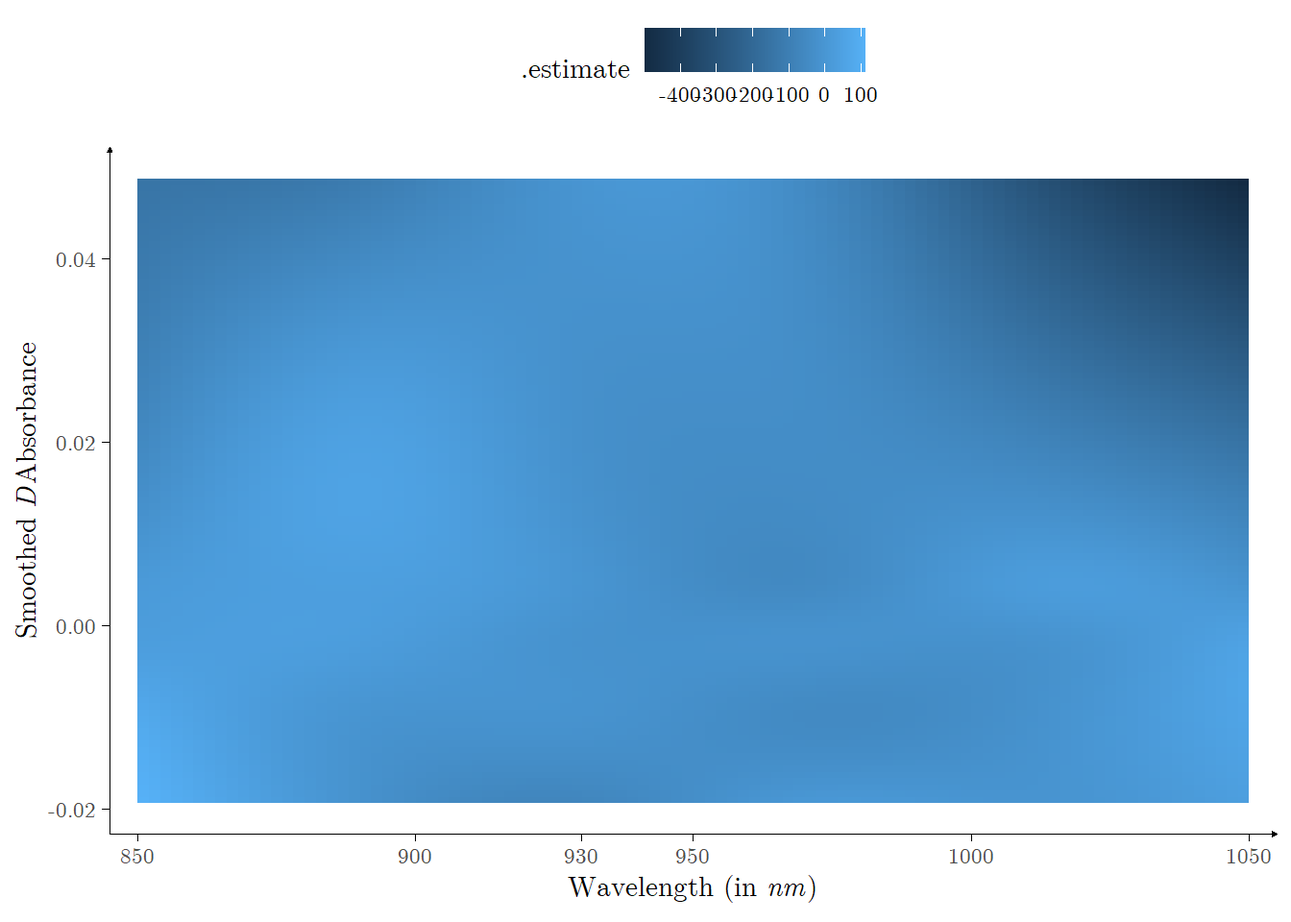
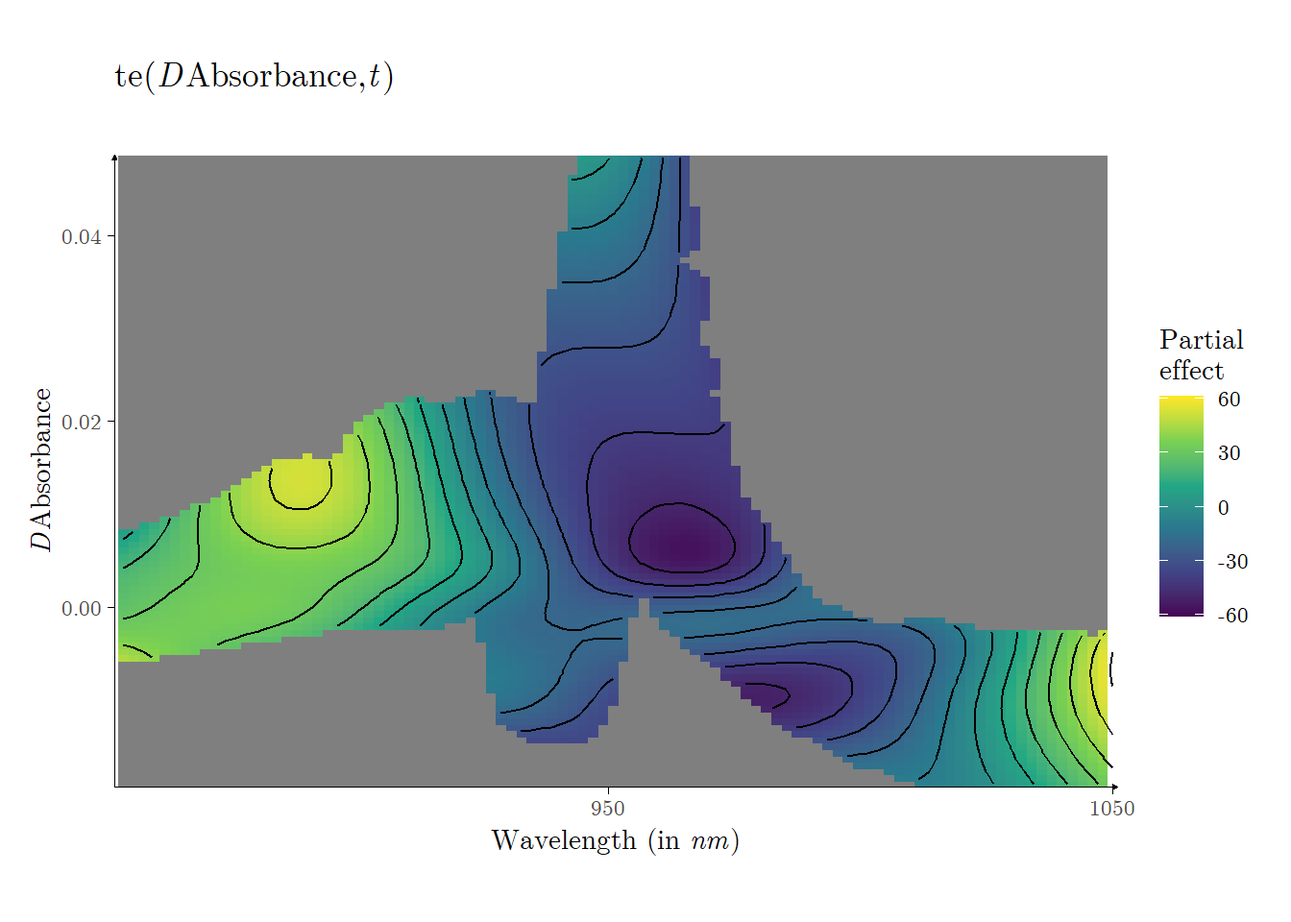
Updating the First Vignette

diff --git a/vignettes/vignette0001.html b/vignettes/vignette0001.html
@@ -214,10 +214,7 @@ window.Quarto = {
   <li><a href="#functional-regression" id="toc-functional-regression" class="nav-link" data-scroll-target="#functional-regression">Functional Regression</a>
   <ul class="collapse">
   <li><a href="#generalized-functional-linear-model" id="toc-generalized-functional-linear-model" class="nav-link" data-scroll-target="#generalized-functional-linear-model">Generalized Functional Linear Model</a></li>
-  <li><a href="#functional-generalized-additive-model" id="toc-functional-generalized-additive-model" class="nav-link" data-scroll-target="#functional-generalized-additive-model">Functional Generalized Additive Model</a>
-  <ul class="collapse">
-  <li><a href="#transformations" id="toc-transformations" class="nav-link" data-scroll-target="#transformations">Transformations</a></li>
-  </ul></li>
+  <li><a href="#functional-generalized-additive-model" id="toc-functional-generalized-additive-model" class="nav-link" data-scroll-target="#functional-generalized-additive-model">Functional Generalized Additive Model</a></li>
   </ul></li>
   <li><a href="#concluding-remarks" id="toc-concluding-remarks" class="nav-link" data-scroll-target="#concluding-remarks">Concluding Remarks</a></li>
   <li><a href="#references" id="toc-references" class="nav-link" data-scroll-target="#references">References</a></li>
@@ -1242,7 +1239,7 @@ Figure&nbsp;11: Left panel: smoothed absorbance curves on the training set. Righ
 <li>The link function <span class="math inline">\(g(\cdot)\)</span> to be adopted;</li>
 <li>The family adopted in the fitting procedure;</li>
 </ul>
-<p>amongst others. The third setting was alluded to previously when presenting the analysis of the Fat percentage data, wherein we observed that a distribution family of bounded support is ideal for the response variable, hence we will adopt the Beta regression framework. With respect to the link function, we determined, via residual analysis, that the <tt>probit</tt> link function results in the best fit (when comapared to the <tt>cloglog</tt>, <tt>cauchit</tt> and <tt>logit</tt> link functions). For the number of components on the functional additive term, we defined <span class="math inline">\(K_1 = K_2 = K\)</span>, and visually examined the predictive behavior of the models for <span class="math inline">\(K \in \{1,2,\ldots,10\}\)</span>. <a href="#fig-estimation0002" class="quarto-xref">Figure&nbsp;12</a> exhibits fitted versus true values, separated by training data and test data, for <span class="math inline">\(K \in \{5,6,7\}\)</span>. We note that the model with <span class="math inline">\(K = 6\)</span> presents less variability than the model with <span class="math inline">\(K = 5\)</span>, however the distinction between the model with <span class="math inline">\(K = 6\)</span> and <span class="math inline">\(K = 7\)</span> is less apparent. Likewise, we find that the change in estimate variability is similar through <span class="math inline">\(K &gt; 6\)</span>. Therefore, we likewise determined, via residuals analysis, the ideal number of components as <span class="math inline">\(K = 6\)</span>.</p>
+<p>amongst others. The third setting was alluded to previously when presenting the analysis of the Fat percentage data, wherein we observed that a distribution family of bounded support is ideal for the response variable, hence we will adopt the Beta regression framework. With respect to the link function, we determined, via residual analysis, that the <tt>probit</tt> link function results in the best fit (when comapared to the <tt>cloglog</tt>, <tt>cauchit</tt> and <tt>logit</tt> link functions). For the number of components on the functional additive term, we defined <span class="math inline">\(K_1 = K_2 = K\)</span>, and visually examined the predictive behavior of the models for <span class="math inline">\(K \in \{1,2,\ldots,10\}\)</span>. <a href="#fig-estimation0002" class="quarto-xref">Figure&nbsp;12</a> exhibits fitted versus true values, separated by training data and test data, for <span class="math inline">\(K \in \{5,6,7\}\)</span>. We note that the model with <span class="math inline">\(K = 6\)</span> presents less variability than the model with <span class="math inline">\(K = 5\)</span>, however the distinction between the model with <span class="math inline">\(K = 6\)</span> and <span class="math inline">\(K = 7\)</span> is less apparent. Likewise, we find that the change in estimate variability is similar through <span class="math inline">\(K &gt; 6\)</span>. Therefore, we likewise determined the ideal number of components via residuals analysis as <span class="math inline">\(K = 6\)</span>.</p>
 <div class="callout callout-style-default callout-warning callout-titled" title="On estimating the deviation parameter">
 <div class="callout-header d-flex align-content-center">
 <div class="callout-icon-container">
@@ -1410,16 +1407,8 @@ Figure&nbsp;12: Fitted values versus true values of Fat percentage, separated be
 </div>
 </div>
 </div>
-<p><a href="#fig-estimation0003" class="quarto-xref">Figure&nbsp;13</a> depicts the residual analysis plots output by a <tt>gamlss</tt> object in <tt>R</tt>. We note that the quantile residuals</p>
+<p><a href="#fig-estimation0003" class="quarto-xref">Figure&nbsp;13</a> depicts some residual analysis plots output by a <tt>gamlss</tt> object in <tt>R</tt>. The normalized quantile residuals seems sufficiently close to normality, hence we conclude the model exhibits a good fit, when we consider the training data solely.</p>
 <div class="cell" data-layout-align="center">
-<pre><code>#&gt; ******************************************************************
-#&gt;        Summary of the Quantile Residuals
-#&gt;                            mean   =  -0.00854049 
-#&gt;                        variance   =  1.00562 
-#&gt;                coef. of skewness  =  -0.03777219 
-#&gt;                coef. of kurtosis  =  3.586081 
-#&gt; Filliben correlation coefficient  =  0.9937032 
-#&gt; ******************************************************************</code></pre>
 <div class="cell-output-display">
 <div id="fig-estimation0003" class="quarto-float quarto-figure quarto-figure-center anchored" data-fig-align="center">
 <figure class="quarto-float quarto-float-fig figure">
@@ -1433,56 +1422,53 @@ Figure&nbsp;13: Residual analysis plot generated by the <tt>gamlss</tt> object f
 </div>
 </div>
 </div>
+<p><a href="#fig-estimation0004" class="quarto-xref">Figure&nbsp;14</a> depicts again the residual analysis plots output by a <tt>gamlss</tt> object in <tt>R</tt>, constructed utilizing now the full data set, with <span class="math inline">\(K = 6\)</span>. The normalized quantile residuals seems less close to normality when compared to the previous residuals analysis plots seen in <a href="#fig-estimation0003" class="quarto-xref">Figure&nbsp;13</a>, exhibiting in particular a higher kurtosis.</p>
 <div class="cell" data-layout-align="center">
 <div class="cell-output-display">
-<div class="quarto-figure quarto-figure-center">
-<figure class="figure">
-<p><img src="vignette0001_files/figure-html/estimation0004-1.png" class="img-fluid figure-img" width="672"></p>
-<figcaption>Residual analysis plot generated by the <tt>gamlss</tt> object for the complete data set.</figcaption>
+<div id="fig-estimation0004" class="quarto-float quarto-figure quarto-figure-center anchored" data-fig-align="center">
+<figure class="quarto-float quarto-float-fig figure">
+<div aria-describedby="fig-estimation0004-caption-0ceaefa1-69ba-4598-a22c-09a6ac19f8ca">
+<img src="vignette0001_files/figure-html/fig-estimation0004-1.png" class="img-fluid quarto-figure quarto-figure-center figure-img" width="672">
+</div>
+<figcaption class="quarto-float-caption-bottom quarto-float-caption quarto-float-fig" id="fig-estimation0004-caption-0ceaefa1-69ba-4598-a22c-09a6ac19f8ca">
+Figure&nbsp;14: Residual analysis plot generated by the <tt>gamlss</tt> object for the complete data set.
+</figcaption>
 </figure>
 </div>
 </div>
-<pre><code>#&gt; ******************************************************************
-#&gt;        Summary of the Quantile Residuals
-#&gt;                            mean   =  -0.01226872 
-#&gt;                        variance   =  0.9980133 
-#&gt;                coef. of skewness  =  0.0229834 
-#&gt;                coef. of kurtosis  =  4.399801 
-#&gt; Filliben correlation coefficient  =  0.9894296 
-#&gt; ******************************************************************</code></pre>
 </div>
 <div class="cell" data-layout-align="center">
 <details class="code-fold">
 <summary>Code</summary>
-<div class="sourceCode cell-code" id="cb17"><pre class="sourceCode r code-with-copy"><code class="sourceCode r"><span id="cb17-1"><a href="#cb17-1" aria-hidden="true" tabindex="-1"></a>se <span class="ot">=</span> <span class="fu">smooth_estimates</span>(fit_total) </span>
-<span id="cb17-2"><a href="#cb17-2" aria-hidden="true" tabindex="-1"></a>se <span class="ot">=</span> se <span class="sc">|&gt;</span> <span class="fu">mutate</span>(<span class="at">x =</span> (<span class="fl">1048.9899</span> <span class="sc">-</span> <span class="fl">851.0101</span>) <span class="sc">*</span> dabsorbance_matrix.tmat <span class="sc">+</span> <span class="fl">851.0101</span>,</span>
-<span id="cb17-3"><a href="#cb17-3" aria-hidden="true" tabindex="-1"></a>                  <span class="at">y =</span> dabsorbance_matrix.omat) <span class="sc">|&gt;</span></span>
-<span id="cb17-4"><a href="#cb17-4" aria-hidden="true" tabindex="-1"></a>  <span class="fu">mutate</span>(<span class="at">dabsorbance_matrix.tmat =</span> <span class="cn">NULL</span>,</span>
-<span id="cb17-5"><a href="#cb17-5" aria-hidden="true" tabindex="-1"></a>         <span class="at">dabsorbance_matrix.omat =</span> <span class="cn">NULL</span>)</span>
-<span id="cb17-6"><a href="#cb17-6" aria-hidden="true" tabindex="-1"></a>se <span class="sc">|&gt;</span> </span>
-<span id="cb17-7"><a href="#cb17-7" aria-hidden="true" tabindex="-1"></a>  <span class="fu">ggplot</span>(<span class="at">mapping =</span> <span class="fu">aes</span>(<span class="at">x =</span> x,</span>
-<span id="cb17-8"><a href="#cb17-8" aria-hidden="true" tabindex="-1"></a>                       <span class="at">y =</span> y,</span>
-<span id="cb17-9"><a href="#cb17-9" aria-hidden="true" tabindex="-1"></a>                       <span class="at">z =</span> .estimate)) <span class="sc">+</span></span>
-<span id="cb17-10"><a href="#cb17-10" aria-hidden="true" tabindex="-1"></a>  <span class="fu">geom_raster</span>(<span class="fu">aes</span>(<span class="at">fill =</span> .estimate)) <span class="sc">+</span></span>
-<span id="cb17-11"><a href="#cb17-11" aria-hidden="true" tabindex="-1"></a>  <span class="fu">theme_classic</span>() <span class="sc">+</span></span>
-<span id="cb17-12"><a href="#cb17-12" aria-hidden="true" tabindex="-1"></a>  <span class="fu">theme</span>(<span class="at">text =</span> <span class="fu">element_text</span>(<span class="at">size =</span> <span class="fu">unit</span>(<span class="dv">11</span>, <span class="st">"pt"</span>),</span>
-<span id="cb17-13"><a href="#cb17-13" aria-hidden="true" tabindex="-1"></a>                            <span class="at">family =</span> <span class="st">"LM Roman 10"</span>,</span>
-<span id="cb17-14"><a href="#cb17-14" aria-hidden="true" tabindex="-1"></a>                            <span class="at">color =</span> <span class="st">"black"</span>),</span>
-<span id="cb17-15"><a href="#cb17-15" aria-hidden="true" tabindex="-1"></a>        <span class="at">axis.line =</span> <span class="fu">element_line</span>(<span class="at">arrow =</span> grid<span class="sc">::</span><span class="fu">arrow</span>(<span class="at">length =</span> <span class="fu">unit</span>(<span class="fl">0.08</span>, <span class="st">"cm"</span>), </span>
-<span id="cb17-16"><a href="#cb17-16" aria-hidden="true" tabindex="-1"></a>                                                     <span class="at">ends =</span> <span class="st">"last"</span>,</span>
-<span id="cb17-17"><a href="#cb17-17" aria-hidden="true" tabindex="-1"></a>                                                     <span class="at">angle =</span> <span class="dv">30</span>,</span>
-<span id="cb17-18"><a href="#cb17-18" aria-hidden="true" tabindex="-1"></a>                                                     <span class="at">type =</span> <span class="st">"closed"</span>),</span>
-<span id="cb17-19"><a href="#cb17-19" aria-hidden="true" tabindex="-1"></a>                                 <span class="at">linewidth =</span> .<span class="dv">25</span>),</span>
-<span id="cb17-20"><a href="#cb17-20" aria-hidden="true" tabindex="-1"></a>        <span class="at">axis.ticks =</span> <span class="fu">element_line</span>(<span class="at">color =</span> <span class="st">"black"</span>,</span>
-<span id="cb17-21"><a href="#cb17-21" aria-hidden="true" tabindex="-1"></a>                                  <span class="at">linewidth =</span> .<span class="dv">125</span>),</span>
-<span id="cb17-22"><a href="#cb17-22" aria-hidden="true" tabindex="-1"></a>        <span class="at">legend.position =</span> <span class="st">"top"</span>) <span class="sc">+</span></span>
-<span id="cb17-23"><a href="#cb17-23" aria-hidden="true" tabindex="-1"></a>  <span class="fu">labs</span>(<span class="at">x =</span> <span class="fu">expression</span>(<span class="fu">paste</span>(<span class="st">"Wavelength "</span>, <span class="st">"(in "</span>, <span class="fu">italic</span>(<span class="st">"nm"</span>), <span class="st">")"</span>)),</span>
-<span id="cb17-24"><a href="#cb17-24" aria-hidden="true" tabindex="-1"></a>       <span class="at">y =</span> <span class="fu">substitute</span>(<span class="fu">paste</span>(<span class="st">"Smoothed "</span>,<span class="fu">italic</span>(<span class="st">"D"</span>),<span class="st">"Absorbance"</span>)),,</span>
-<span id="cb17-25"><a href="#cb17-25" aria-hidden="true" tabindex="-1"></a>       <span class="at">col =</span> <span class="st">""</span>) <span class="sc">+</span></span>
-<span id="cb17-26"><a href="#cb17-26" aria-hidden="true" tabindex="-1"></a>  <span class="fu">scale_x_continuous</span>(<span class="at">expand =</span> <span class="fu">c</span>(<span class="dv">0</span>, <span class="dv">0</span>),</span>
-<span id="cb17-27"><a href="#cb17-27" aria-hidden="true" tabindex="-1"></a>                     <span class="at">breaks =</span> <span class="fu">c</span>(<span class="dv">850</span>, <span class="dv">900</span>, <span class="dv">930</span>, <span class="dv">950</span>, <span class="dv">1000</span>, <span class="dv">1050</span>),</span>
-<span id="cb17-28"><a href="#cb17-28" aria-hidden="true" tabindex="-1"></a>                     <span class="at">labels =</span> <span class="fu">c</span>(<span class="st">"850"</span>, <span class="st">"900"</span>, <span class="st">"930"</span>, <span class="st">"950"</span>, <span class="st">"1000"</span>, <span class="st">"1050"</span>),</span>
-<span id="cb17-29"><a href="#cb17-29" aria-hidden="true" tabindex="-1"></a>                     <span class="at">limits =</span> <span class="fu">c</span>(<span class="dv">845</span>, <span class="dv">1055</span>))</span></code><button title="Copy to Clipboard" class="code-copy-button"><i class="bi"></i></button></pre></div>
+<div class="sourceCode cell-code" id="cb15"><pre class="sourceCode r code-with-copy"><code class="sourceCode r"><span id="cb15-1"><a href="#cb15-1" aria-hidden="true" tabindex="-1"></a>se <span class="ot">=</span> <span class="fu">smooth_estimates</span>(fit_total, <span class="at">dist =</span> .<span class="dv">05</span>) </span>
+<span id="cb15-2"><a href="#cb15-2" aria-hidden="true" tabindex="-1"></a><span class="fu">draw</span>(se) <span class="sc">+</span> </span>
+<span id="cb15-3"><a href="#cb15-3" aria-hidden="true" tabindex="-1"></a>  <span class="fu">theme_classic</span>() <span class="sc">+</span></span>
+<span id="cb15-4"><a href="#cb15-4" aria-hidden="true" tabindex="-1"></a>  <span class="fu">theme</span>(<span class="at">text =</span> <span class="fu">element_text</span>(<span class="at">size =</span> <span class="fu">unit</span>(<span class="dv">11</span>, <span class="st">"pt"</span>),</span>
+<span id="cb15-5"><a href="#cb15-5" aria-hidden="true" tabindex="-1"></a>                            <span class="at">family =</span> <span class="st">"LM Roman 10"</span>,</span>
+<span id="cb15-6"><a href="#cb15-6" aria-hidden="true" tabindex="-1"></a>                            <span class="at">color =</span> <span class="st">"black"</span>),</span>
+<span id="cb15-7"><a href="#cb15-7" aria-hidden="true" tabindex="-1"></a>        <span class="at">axis.line =</span> <span class="fu">element_line</span>(<span class="at">arrow =</span> grid<span class="sc">::</span><span class="fu">arrow</span>(<span class="at">length =</span> <span class="fu">unit</span>(<span class="fl">0.08</span>, <span class="st">"cm"</span>), </span>
+<span id="cb15-8"><a href="#cb15-8" aria-hidden="true" tabindex="-1"></a>                                                     <span class="at">ends =</span> <span class="st">"last"</span>,</span>
+<span id="cb15-9"><a href="#cb15-9" aria-hidden="true" tabindex="-1"></a>                                                     <span class="at">angle =</span> <span class="dv">30</span>,</span>
+<span id="cb15-10"><a href="#cb15-10" aria-hidden="true" tabindex="-1"></a>                                                     <span class="at">type =</span> <span class="st">"closed"</span>),</span>
+<span id="cb15-11"><a href="#cb15-11" aria-hidden="true" tabindex="-1"></a>                                 <span class="at">linewidth =</span> .<span class="dv">25</span>),</span>
+<span id="cb15-12"><a href="#cb15-12" aria-hidden="true" tabindex="-1"></a>        <span class="at">axis.ticks =</span> <span class="fu">element_line</span>(<span class="at">color =</span> <span class="st">"black"</span>,</span>
+<span id="cb15-13"><a href="#cb15-13" aria-hidden="true" tabindex="-1"></a>                                  <span class="at">linewidth =</span> .<span class="dv">125</span>),</span>
+<span id="cb15-14"><a href="#cb15-14" aria-hidden="true" tabindex="-1"></a>        <span class="at">legend.position =</span> <span class="st">"right"</span>) <span class="sc">+</span></span>
+<span id="cb15-15"><a href="#cb15-15" aria-hidden="true" tabindex="-1"></a>  <span class="fu">labs</span>(<span class="at">x =</span> <span class="fu">expression</span>(<span class="fu">paste</span>(<span class="st">"Wavelength "</span>, <span class="st">"(in "</span>, <span class="fu">italic</span>(<span class="st">"nm"</span>), <span class="st">")"</span>)),</span>
+<span id="cb15-16"><a href="#cb15-16" aria-hidden="true" tabindex="-1"></a>       <span class="at">y =</span> <span class="fu">substitute</span>(<span class="fu">paste</span>(<span class="fu">italic</span>(<span class="st">"D"</span>),<span class="st">"Absorbance"</span>)),,</span>
+<span id="cb15-17"><a href="#cb15-17" aria-hidden="true" tabindex="-1"></a>       <span class="at">col =</span> <span class="st">""</span>,</span>
+<span id="cb15-18"><a href="#cb15-18" aria-hidden="true" tabindex="-1"></a>       <span class="at">subtitle =</span> <span class="st">""</span>,</span>
+<span id="cb15-19"><a href="#cb15-19" aria-hidden="true" tabindex="-1"></a>       <span class="at">tag =</span> <span class="st">""</span>,</span>
+<span id="cb15-20"><a href="#cb15-20" aria-hidden="true" tabindex="-1"></a>       <span class="at">caption =</span> <span class="st">""</span>) <span class="sc">+</span></span>
+<span id="cb15-21"><a href="#cb15-21" aria-hidden="true" tabindex="-1"></a>  <span class="fu">scale_x_continuous</span>(<span class="at">expand =</span> <span class="fu">c</span>(<span class="dv">0</span>, <span class="dv">0</span>),</span>
+<span id="cb15-22"><a href="#cb15-22" aria-hidden="true" tabindex="-1"></a>                     <span class="at">breaks =</span> <span class="fu">c</span>(<span class="dv">0</span>, .<span class="dv">5</span>, <span class="dv">1</span>),</span>
+<span id="cb15-23"><a href="#cb15-23" aria-hidden="true" tabindex="-1"></a>                     <span class="at">labels =</span> <span class="fu">c</span>(<span class="st">"850"</span>, <span class="st">"950"</span>, <span class="st">"1050"</span>),</span>
+<span id="cb15-24"><a href="#cb15-24" aria-hidden="true" tabindex="-1"></a>                     <span class="at">limits =</span> <span class="fu">c</span>(<span class="fl">0.01169591</span>, <span class="fl">1.004762</span>)) <span class="sc">+</span></span>
+<span id="cb15-25"><a href="#cb15-25" aria-hidden="true" tabindex="-1"></a>  <span class="fu">scale_y_continuous</span>(<span class="at">expand =</span> <span class="fu">c</span>(<span class="dv">0</span>, <span class="dv">0</span>)) <span class="sc">+</span></span>
+<span id="cb15-26"><a href="#cb15-26" aria-hidden="true" tabindex="-1"></a>  <span class="fu">ggtitle</span>(<span class="fu">substitute</span>(<span class="fu">paste</span>(<span class="st">"te("</span>,<span class="fu">italic</span>(<span class="st">"D"</span>),<span class="st">"Absorbance,"</span>, <span class="fu">italic</span>(t), <span class="st">")"</span>))) <span class="sc">+</span></span>
+<span id="cb15-27"><a href="#cb15-27" aria-hidden="true" tabindex="-1"></a>  <span class="fu">scale_fill_continuous</span>(<span class="at">type =</span> <span class="st">"viridis"</span>)</span>
+<span id="cb15-28"><a href="#cb15-28" aria-hidden="true" tabindex="-1"></a><span class="co">#&gt; Scale for fill is already present.</span></span>
+<span id="cb15-29"><a href="#cb15-29" aria-hidden="true" tabindex="-1"></a><span class="co">#&gt; Adding another scale for fill, which will replace the existing scale.</span></span></code><button title="Copy to Clipboard" class="code-copy-button"><i class="bi"></i></button></pre></div>
 </details>
 <div class="cell-output-display">
 <div class="quarto-figure quarto-figure-center">
@@ -1491,54 +1477,59 @@ Figure&nbsp;13: Residual analysis plot generated by the <tt>gamlss</tt> object f
 </figure>
 </div>
 </div>
-</div>
-<section id="transformations" class="level3">
-<h3 class="anchored" data-anchor-id="transformations">Transformations</h3>
-<p><span class="math display">\[
-  g^{-1}(\mu_i) = \beta_0 + \int^{1050}_{850} F\{s, T(D \chi_i(s))\} \; \text{d}s
-\]</span></p>
-<div class="cell">
 <details class="code-fold">
 <summary>Code</summary>
-<div class="sourceCode cell-code" id="cb18"><pre class="sourceCode r code-with-copy"><code class="sourceCode r"><span id="cb18-1"><a href="#cb18-1" aria-hidden="true" tabindex="-1"></a>tecator_data<span class="sc">$</span>normdabsorbance_matrix <span class="ot">=</span> tecator_data<span class="sc">$</span>dabsorbance_matrix</span>
-<span id="cb18-2"><a href="#cb18-2" aria-hidden="true" tabindex="-1"></a><span class="cf">for</span>(j <span class="cf">in</span> <span class="dv">1</span> <span class="sc">:</span> <span class="fu">ncol</span>(tecator_data<span class="sc">$</span>dabsorbance_matrix))</span>
-<span id="cb18-3"><a href="#cb18-3" aria-hidden="true" tabindex="-1"></a>{</span>
-<span id="cb18-4"><a href="#cb18-4" aria-hidden="true" tabindex="-1"></a>  aux_dabsorbance <span class="ot">=</span> (tecator_data <span class="sc">|&gt;</span> <span class="fu">subset</span>(train <span class="sc">==</span> <span class="dv">1</span>))<span class="sc">$</span>dabsorbance_matrix[ , j ]</span>
-<span id="cb18-5"><a href="#cb18-5" aria-hidden="true" tabindex="-1"></a>  <span class="cf">for</span>(i <span class="cf">in</span> <span class="dv">1</span> <span class="sc">:</span> <span class="fu">nrow</span>(tecator_data<span class="sc">$</span>dabsorbance_matrix))</span>
-<span id="cb18-6"><a href="#cb18-6" aria-hidden="true" tabindex="-1"></a>  {</span>
-<span id="cb18-7"><a href="#cb18-7" aria-hidden="true" tabindex="-1"></a>    tecator_data<span class="sc">$</span>normdabsorbance_matrix[ i , j ] <span class="ot">=</span></span>
-<span id="cb18-8"><a href="#cb18-8" aria-hidden="true" tabindex="-1"></a>      <span class="fu">mean</span>(<span class="fu">pnorm</span>((tecator_data<span class="sc">$</span>dabsorbance_matrix[ i , j ] <span class="sc">-</span> aux_dabsorbance) <span class="sc">/</span> (<span class="fu">sd</span>(aux_dabsorbance))))</span>
-<span id="cb18-9"><a href="#cb18-9" aria-hidden="true" tabindex="-1"></a>  }</span>
-<span id="cb18-10"><a href="#cb18-10" aria-hidden="true" tabindex="-1"></a>}</span>
-<span id="cb18-11"><a href="#cb18-11" aria-hidden="true" tabindex="-1"></a>tecator_data <span class="ot">=</span> tecator_data <span class="sc">|&gt;</span></span>
-<span id="cb18-12"><a href="#cb18-12" aria-hidden="true" tabindex="-1"></a>  <span class="fu">mutate</span>(<span class="at">normdabsorbance =</span> <span class="fu">tfd</span>(<span class="at">data =</span> normdabsorbance_matrix,</span>
-<span id="cb18-13"><a href="#cb18-13" aria-hidden="true" tabindex="-1"></a>                               <span class="at">arg =</span> <span class="fu">attr</span>(tecator_data<span class="sc">$</span>normdabsorbance_matrix, <span class="st">"arg"</span>)))</span>
-<span id="cb18-14"><a href="#cb18-14" aria-hidden="true" tabindex="-1"></a>tecator_data <span class="sc">|&gt;</span></span>
-<span id="cb18-15"><a href="#cb18-15" aria-hidden="true" tabindex="-1"></a>  <span class="fu">ggplot</span>(<span class="at">mapping =</span> <span class="fu">aes</span>(<span class="at">y =</span> normdabsorbance,</span>
-<span id="cb18-16"><a href="#cb18-16" aria-hidden="true" tabindex="-1"></a>                       <span class="at">color =</span> fat20)) <span class="sc">+</span></span>
-<span id="cb18-17"><a href="#cb18-17" aria-hidden="true" tabindex="-1"></a>  <span class="fu">geom_spaghetti</span>()</span></code><button title="Copy to Clipboard" class="code-copy-button"><i class="bi"></i></button></pre></div>
+<div class="sourceCode cell-code" id="cb16"><pre class="sourceCode r code-with-copy"><code class="sourceCode r"><span id="cb16-1"><a href="#cb16-1" aria-hidden="true" tabindex="-1"></a></span>
+<span id="cb16-2"><a href="#cb16-2" aria-hidden="true" tabindex="-1"></a>se <span class="sc">|&gt;</span> <span class="fu">mutate</span>(<span class="at">.estimate =</span> <span class="fu">abs</span>(.estimate <span class="sc">/</span> .se <span class="sc">**</span> .<span class="dv">5</span>)) <span class="sc">|&gt;</span> <span class="fu">draw</span>() <span class="sc">+</span> </span>
+<span id="cb16-3"><a href="#cb16-3" aria-hidden="true" tabindex="-1"></a>  <span class="fu">theme_classic</span>() <span class="sc">+</span></span>
+<span id="cb16-4"><a href="#cb16-4" aria-hidden="true" tabindex="-1"></a>  <span class="fu">theme</span>(<span class="at">text =</span> <span class="fu">element_text</span>(<span class="at">size =</span> <span class="fu">unit</span>(<span class="dv">11</span>, <span class="st">"pt"</span>),</span>
+<span id="cb16-5"><a href="#cb16-5" aria-hidden="true" tabindex="-1"></a>                            <span class="at">family =</span> <span class="st">"LM Roman 10"</span>,</span>
+<span id="cb16-6"><a href="#cb16-6" aria-hidden="true" tabindex="-1"></a>                            <span class="at">color =</span> <span class="st">"black"</span>),</span>
+<span id="cb16-7"><a href="#cb16-7" aria-hidden="true" tabindex="-1"></a>        <span class="at">axis.line =</span> <span class="fu">element_line</span>(<span class="at">arrow =</span> grid<span class="sc">::</span><span class="fu">arrow</span>(<span class="at">length =</span> <span class="fu">unit</span>(<span class="fl">0.08</span>, <span class="st">"cm"</span>), </span>
+<span id="cb16-8"><a href="#cb16-8" aria-hidden="true" tabindex="-1"></a>                                                     <span class="at">ends =</span> <span class="st">"last"</span>,</span>
+<span id="cb16-9"><a href="#cb16-9" aria-hidden="true" tabindex="-1"></a>                                                     <span class="at">angle =</span> <span class="dv">30</span>,</span>
+<span id="cb16-10"><a href="#cb16-10" aria-hidden="true" tabindex="-1"></a>                                                     <span class="at">type =</span> <span class="st">"closed"</span>),</span>
+<span id="cb16-11"><a href="#cb16-11" aria-hidden="true" tabindex="-1"></a>                                 <span class="at">linewidth =</span> .<span class="dv">25</span>),</span>
+<span id="cb16-12"><a href="#cb16-12" aria-hidden="true" tabindex="-1"></a>        <span class="at">axis.ticks =</span> <span class="fu">element_line</span>(<span class="at">color =</span> <span class="st">"black"</span>,</span>
+<span id="cb16-13"><a href="#cb16-13" aria-hidden="true" tabindex="-1"></a>                                  <span class="at">linewidth =</span> .<span class="dv">125</span>),</span>
+<span id="cb16-14"><a href="#cb16-14" aria-hidden="true" tabindex="-1"></a>        <span class="at">legend.position =</span> <span class="st">"right"</span>) <span class="sc">+</span></span>
+<span id="cb16-15"><a href="#cb16-15" aria-hidden="true" tabindex="-1"></a>  <span class="fu">labs</span>(<span class="at">x =</span> <span class="fu">expression</span>(<span class="fu">paste</span>(<span class="st">"Wavelength "</span>, <span class="st">"(in "</span>, <span class="fu">italic</span>(<span class="st">"nm"</span>), <span class="st">")"</span>)),</span>
+<span id="cb16-16"><a href="#cb16-16" aria-hidden="true" tabindex="-1"></a>       <span class="at">y =</span> <span class="fu">substitute</span>(<span class="fu">paste</span>(<span class="fu">italic</span>(<span class="st">"D"</span>),<span class="st">"Absorbance"</span>)),,</span>
+<span id="cb16-17"><a href="#cb16-17" aria-hidden="true" tabindex="-1"></a>       <span class="at">col =</span> <span class="st">""</span>,</span>
+<span id="cb16-18"><a href="#cb16-18" aria-hidden="true" tabindex="-1"></a>       <span class="at">subtitle =</span> <span class="st">""</span>,</span>
+<span id="cb16-19"><a href="#cb16-19" aria-hidden="true" tabindex="-1"></a>       <span class="at">tag =</span> <span class="st">""</span>,</span>
+<span id="cb16-20"><a href="#cb16-20" aria-hidden="true" tabindex="-1"></a>       <span class="at">caption =</span> <span class="st">""</span>) <span class="sc">+</span></span>
+<span id="cb16-21"><a href="#cb16-21" aria-hidden="true" tabindex="-1"></a>  <span class="fu">scale_x_continuous</span>(<span class="at">expand =</span> <span class="fu">c</span>(<span class="dv">0</span>, <span class="dv">0</span>),</span>
+<span id="cb16-22"><a href="#cb16-22" aria-hidden="true" tabindex="-1"></a>                     <span class="at">breaks =</span> <span class="fu">c</span>(<span class="dv">0</span>, .<span class="dv">4</span>, .<span class="dv">5</span>, <span class="dv">1</span>),</span>
+<span id="cb16-23"><a href="#cb16-23" aria-hidden="true" tabindex="-1"></a>                     <span class="at">labels =</span> <span class="fu">c</span>(<span class="st">"850"</span>, <span class="st">"930"</span>, <span class="st">"950"</span>, <span class="st">"1050"</span>),</span>
+<span id="cb16-24"><a href="#cb16-24" aria-hidden="true" tabindex="-1"></a>                     <span class="at">limits =</span> <span class="fu">c</span>(<span class="fl">0.01169591</span>, <span class="fl">1.004762</span>)) <span class="sc">+</span></span>
+<span id="cb16-25"><a href="#cb16-25" aria-hidden="true" tabindex="-1"></a>  <span class="fu">scale_y_continuous</span>(<span class="at">expand =</span> <span class="fu">c</span>(<span class="dv">0</span>, <span class="dv">0</span>)) <span class="sc">+</span></span>
+<span id="cb16-26"><a href="#cb16-26" aria-hidden="true" tabindex="-1"></a>  <span class="fu">ggtitle</span>(<span class="fu">substitute</span>(<span class="fu">paste</span>(<span class="st">"te("</span>,<span class="fu">italic</span>(<span class="st">"D"</span>),<span class="st">"Absorbance,"</span>, <span class="fu">italic</span>(t), <span class="st">")"</span>))) <span class="sc">+</span></span>
+<span id="cb16-27"><a href="#cb16-27" aria-hidden="true" tabindex="-1"></a>  <span class="fu">scale_fill_continuous</span>(<span class="at">type =</span> <span class="st">"viridis"</span>,</span>
+<span id="cb16-28"><a href="#cb16-28" aria-hidden="true" tabindex="-1"></a>                        <span class="at">limits =</span> <span class="fu">c</span>(<span class="dv">0</span>, <span class="dv">10</span>))</span>
+<span id="cb16-29"><a href="#cb16-29" aria-hidden="true" tabindex="-1"></a><span class="co">#&gt; Scale for fill is already present.</span></span>
+<span id="cb16-30"><a href="#cb16-30" aria-hidden="true" tabindex="-1"></a><span class="co">#&gt; Adding another scale for fill, which will replace the existing scale.</span></span></code><button title="Copy to Clipboard" class="code-copy-button"><i class="bi"></i></button></pre></div>
 </details>
 <div class="cell-output-display">
-<div>
+<div class="quarto-figure quarto-figure-center">
 <figure class="figure">
-<p><img src="vignette0001_files/figure-html/transformation0001-1.png" class="img-fluid figure-img" width="672"></p>
+<p><img src="vignette0001_files/figure-html/estimation0005-2.png" class="img-fluid quarto-figure quarto-figure-center figure-img" width="672"></p>
 </figure>
 </div>
 </div>
 </div>
-<p><span class="math display">\[
-  \hat{H}_t(x) = N^{-1}_{\text{train}}\sum_{i \in \text{train}}\Phi\Bigg(\frac{x - X_i(t)}{h(t)}\Bigg)
-\]</span></p>
-<p>where <span class="math inline">\(h(t)\)</span> is a tuning parameter, potentially dependent on <span class="math inline">\(t\)</span> - we will adopt <span class="math inline">\(h(t)\)</span> as the estimated square deviation function of the training data set.</p>
-<p><span class="math display">\[
-  \hat{G}_t(x) = N^{-1}\sum^N_{i=1}\textbf{1}_{(x, -\infty)}(\chi_i(t))
-\]</span></p>
-</section>
 </section>
 </section>
 <section id="concluding-remarks" class="level1">
 <h1>Concluding Remarks</h1>
-<p>Noticing.</p>
+<p>An additional approach suggested in <span class="citation" data-cites="mcLean:2014">McLean et al. (<a href="#ref-mcLean:2014" role="doc-biblioref">2014</a>)</span> is to transform our functional covariate before utilizing it in the FGAM model. In particular,</p>
+<p><span class="math display">\[
+  \hat{G}_t(x) = N^{-1}\sum^N_{i=1}\textbf{1}_{(x, -\infty)}(\chi_i(t))
+\]</span></p>
+<p><span class="math display">\[
+  \hat{H}_t(x) = N^{-1}_{\text{train}}\sum_{i \in \text{train}}\Phi\Bigg(\frac{x - X_i(t)}{h(t)}\Bigg)
+\]</span></p>
+<p>where <span class="math inline">\(h(t)\)</span> is a tuning parameter, potentially dependent on <span class="math inline">\(t\)</span>.</p>
 </section>
 <section id="references" class="level1">
 

diff --git a/vignettes.html b/vignettes.html
@@ -201,7 +201,7 @@ window.Quarto = {
 
 <div class="quarto-listing quarto-listing-container-default" id="listing-listing">
 <div class="list quarto-listing-default">
-<div class="quarto-post image-right" data-index="0" data-listing-date-sort="1750820400000" data-listing-file-modified-sort="1750541297320" data-listing-date-modified-sort="NaN" data-listing-reading-time-sort="90" data-listing-word-count-sort="17985">
+<div class="quarto-post image-right" data-index="0" data-listing-date-sort="1750820400000" data-listing-file-modified-sort="1750901959524" data-listing-date-modified-sort="NaN" data-listing-reading-time-sort="92" data-listing-word-count-sort="18390">
 <div class="thumbnail"><a href="./vignettes/vignette0001.html" class="no-external">
 
 <p class="card-img-top"><img src="vignettes\vignette0001_files\figure-html\fig-figures0001-1.png"  class="thumbnail-image card-img"/></p>
